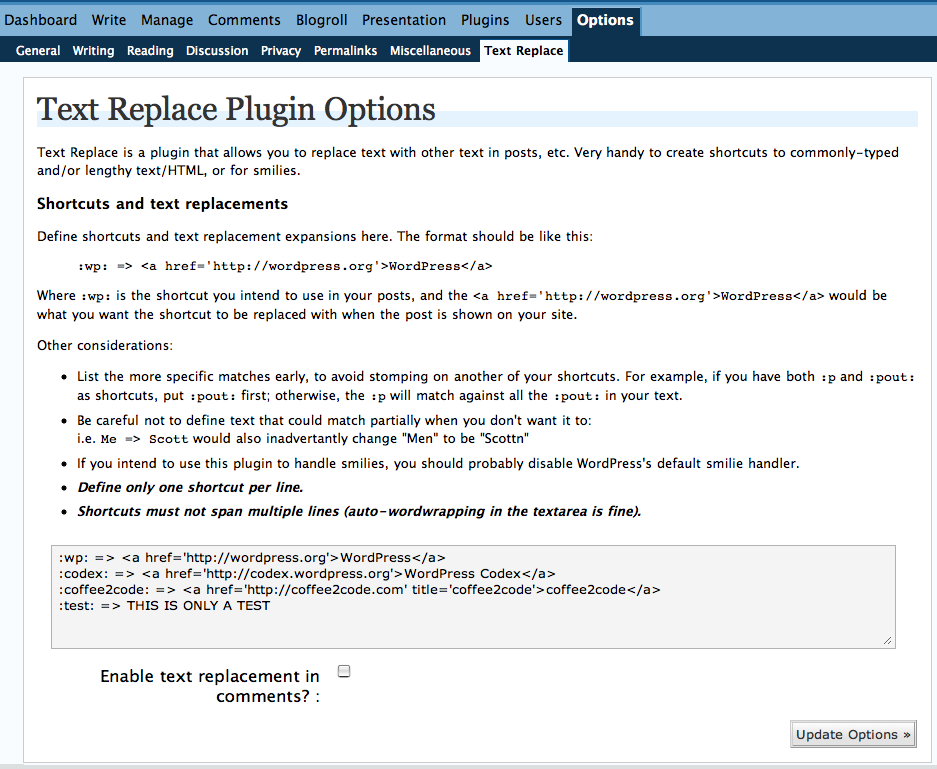
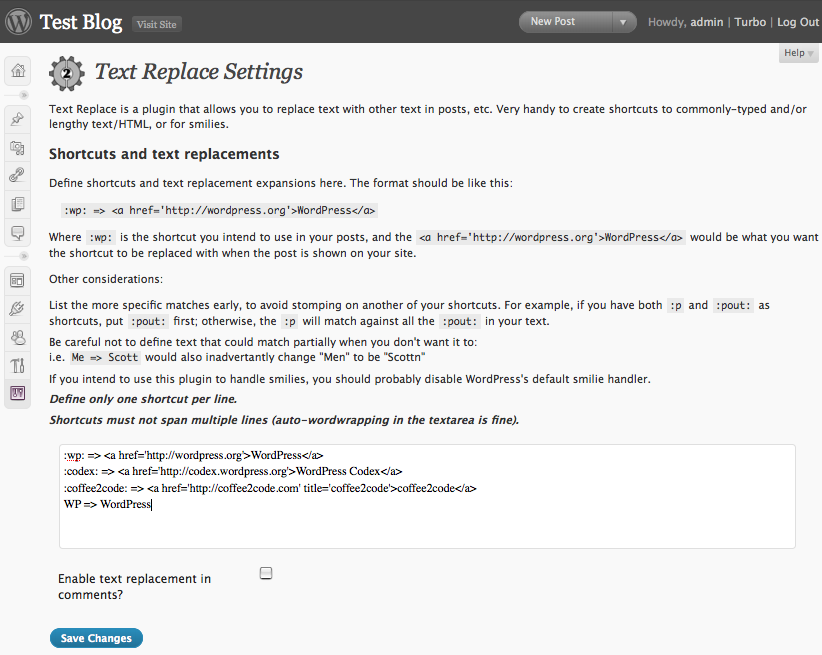
Fixed path-related issue for options page; added 'Settings' link for plugin on admin Plugins page; changed permission check; more localization-related work; minor code reformatting (spacing); removed hardcoded path; updated copyright; noted compatibility through 2.8+; dropped compatibility with vers
git-svn-id: https://plugins.svn.wordpress.org/text-replace/trunk@134848 b8457f37-d9ea-0310-8a92-e5e31aec5664

diff --git a/text-replace.php b/text-replace.php
@@ -1,7 +1,7 @@
 <?php
 /*
 Plugin Name: Text Replace
-Version: 2.0
+Version: 2.5
 Plugin URI: http://coffee2code.com/wp-plugins/text-replace
 Author: Scott Reilly
 Author URI: http://coffee2code.com
@@ -38,7 +38,7 @@ use the updated replacement text.
 - SPECIAL NOTE FOR UPGRADERS: If you have used v1.0 or prior of this plugin, you will have to copy your $text_to_replace
 array contents into the plugin's new option's page field.
 
-Compatible with WordPress 2.2+, 2.3+, and 2.5.
+Compatible with WordPress 2.6+, 2.7+, 2.8+
 
 =>> Read the accompanying readme.txt file for more information.  Also, visit the plugin's homepage
 =>> for more information and the latest updates
@@ -48,14 +48,13 @@ Installation:
 1. Download the file http://coffee2code.com/wp-plugins/text-replace.zip and unzip it into your 
 /wp-content/plugins/ directory.
 2. Activate the plugin through the 'Plugins' admin menu in WordPress
-3. Go to the new Options -> Text Replace admin options page.  Optionally customize the options.
-(For WordPress 2.5 this would be Settings -> Text Replace)
+3. Go to Settings -> Text Replace admin options page and customize the options (notably to define the shortcuts and their replacements).
 4. Start using the shortcuts in posts.  (Also applies to shortcuts already defined in older posts as well)
 
 */
 
 /*
-Copyright (c) 2004-2008 by Scott Reilly (aka coffee2code)
+Copyright (c) 2004-2009 by Scott Reilly (aka coffee2code)
 
 Permission is hereby granted, free of charge, to any person obtaining a copy of this software and associated documentation 
 files (the "Software"), to deal in the Software without restriction, including without limitation the rights to use, copy, 
@@ -114,20 +113,37 @@ class TextReplace {
 	}
 
 	function admin_menu() {
-		if ( $this->show_admin )
-			add_options_page('Text Replace', 'Text Replace', 9, basename(__FILE__), array(&$this, 'options_page'));
+		static $plugin_basename;
+		if ( $this->show_admin ) {
+			global $wp_version;
+			if ( current_user_can('manage_options') ) {
+				$plugin_basename = plugin_basename(__FILE__); 
+				if ( version_compare( $wp_version, '2.6.999', '>' ) )
+					add_filter( 'plugin_action_links_' . $plugin_basename, array(&$this, 'plugin_action_links') );
+				add_options_page(__('Text Replace', 'text-replace'), __('Text Replace', 'text-replace'), 9, $plugin_basename, array(&$this, 'options_page'));
+			}
+		}
+	}
+
+	function plugin_action_links( $action_links ) {
+		static $plugin_basename;
+		if ( !$plugin_basename ) $plugin_basename = plugin_basename(__FILE__); 
+		$settings_link = '<a href="options.php?page='.$plugin_basename.'">' . __('Settings', 'text-replace') . '</a>';
+		array_unshift( $action_links, $settings_link );
+
+		return $action_links;
 	}
 
 	function get_options() {
-		if ( !empty($this->options)) return $this->options;
+		if ( !empty($this->options) ) return $this->options;
 		// Derive options from the config
 		$options = array();
-		foreach (array_keys($this->config) as $opt) {
+		foreach ( array_keys($this->config) as $opt ) {
 			$options[$opt] = $this->config[$opt]['default'];
 		}
         $existing_options = get_option($this->admin_options_name);
-        if (!empty($existing_options)) {
-            foreach ($existing_options as $key => $value)
+        if ( !empty($existing_options) ) {
+            foreach ( $existing_options as $key => $value )
                 $options[$key] = $value;
         }            
 		$this->options = $options;
@@ -135,6 +151,8 @@ class TextReplace {
 	}
 
 	function options_page() {
+		static $plugin_basename;
+		if ( !$plugin_basename ) $plugin_basename = plugin_basename(__FILE__); 
 		$options = $this->get_options();
 		// See if user has submitted form
 		if ( isset($_POST['submitted']) ) {
@@ -160,14 +178,16 @@ class TextReplace {
 			// Remember to put all the other options into the array or they'll get lost!
 			update_option($this->admin_options_name, $options);
 
-			echo "<div class='updated'><p>Plugin settings saved.</p></div>";
+			echo "<div id='message' class='updated fade'><p><strong>" . __('Settings saved', 'text-replace') . '</strong></p></div>';
 		}
 
-		$action_url = $_SERVER[PHP_SELF] . '?page=' . basename(__FILE__);
+		$action_url = $_SERVER[PHP_SELF] . '?page=' . $plugin_basename;
+		$logo = plugins_url() . '/' . basename($_GET['page'], '.php') . '/c2c_minilogo.png';
 
 		echo <<<END
 		<div class='wrap'>
-			<h2>Text Replace Plugin Options</h2>
+			<div class='icon32' style='width:44px;'><img src='$logo' alt='A plugin by coffee2code' /><br /></div>
+			<h2>Text Replace Settings</h2>
 			<p>Text Replace is a plugin that allows you to replace text with other text in posts, etc.  
 			Very handy to create shortcuts to commonly-typed and/or lengthy text/HTML, or for smilies.</p>
 						
@@ -210,23 +230,44 @@ END;
 					} else {
 						$checked = '';
 					};
-					if ($this->config[$opt]['datatype'] == 'array')
-						$value = implode(', ', $value);
-					elseif ($this->config[$opt]['datatype'] == 'hash') {
-						$new_value = '';
-						foreach ($value AS $shortcut => $replacement) {
-							$new_value .= "$shortcut => $replacement\n";
+					if ($this->config[$opt]['datatype'] == 'array') {
+						if (!is_array($value))
+							$value = '';
+						else {
+							if ($input == 'textarea' || $input == 'inline_textarea')
+								$value = implode("\n", $value);
+							else
+								$value = implode(', ', $value);
 						}
-						$value = $new_value;
+					} elseif ($this->config[$opt]['datatype'] == 'hash') {
+						if (!is_array($value))
+							$value = '';
+						else {
+							$new_value = '';
+							foreach ($value AS $shortcut => $replacement) {
+								$new_value .= "$shortcut => $replacement\n";
+							}
+							$value = $new_value;
+						}
 					}
 					echo "<tr valign='top'>";
-					if ($this->config[$opt]['input'] == 'textarea') {
+					if ($input == 'textarea') {
 						echo "<td colspan='2'>";
 						if ($label) echo "<strong>$label</strong><br />";
 						echo "<textarea name='$opt' id='$opt' {$this->config[$opt]['input_attributes']}>" . $value . '</textarea>';
 					} else {
 						echo "<th scope='row'>$label</th><td>";
-						echo "<input name='$opt' type='$input' id='$opt' value='$value' $checked {$this->config[$opt]['input_attributes']} />";
+						if ($input == "inline_textarea")
+							echo "<textarea name='$opt' id='$opt' {$this->config[$opt]['input_attributes']}>" . $value . '</textarea>';
+						elseif ($input == 'select') {
+							echo "<select name='$opt' id='$opt'>";
+							foreach ($this->config[$opt]['options'] as $sopt) {
+								$selected = $value == $sopt ? " selected='selected'" : '';
+								echo "<option value='$sopt'$selected>$sopt</option>";
+							}
+							echo "</select>";
+						} else
+							echo "<input name='$opt' type='$input' id='$opt' value='$value' $checked {$this->config[$opt]['input_attributes']} />";
 					}
 					if ($this->config[$opt]['help']) {
 						echo "<br /><span style='color:#777; font-size:x-small;'>";
@@ -235,14 +276,15 @@ END;
 					}
 					echo "</td></tr>";
 				}
+		$txt = __('Save Changes');
 		echo <<<END
-			</table>
+			</tbody></table>
 			<input type="hidden" name="submitted" value="1" />
-			<div class="submit"><input type="submit" name="Submit" value="Save Changes" /></div>
+			<div class="submit"><input type="submit" name="Submit" class="button-primary" value="{$txt}" /></div>
 		</form>
 			</div>
 END;
-		$logo = get_option('siteurl') . '/wp-content/plugins/' . basename($_GET['page'], '.php') . '/c2c_minilogo.png';
+
 		echo <<<END
 		<style type="text/css">
 			#c2c {
@@ -282,8 +324,8 @@ END;
 		$options = $this->get_options();
 		$text_to_replace = $options['text_to_replace'];
 		$text = ' ' . $text . ' ';
-		if (!empty($text_to_replace)) {
-			foreach ($text_to_replace as $old_text => $new_text) {
+		if ( !empty($text_to_replace) ) {
+			foreach ( $text_to_replace as $old_text => $new_text ) {
 				$old_text = str_replace($oldchars, $newchars, $old_text);
 				// Old method for string replacement.
 				//$text = preg_replace("|([\s\>]*)(".$old_text.")([\s\<\.,;:\\/\-]*)|imsU" , "$1".$new_text."$3", $text);
@@ -298,13 +340,11 @@ END;
 } // end TextReplace
 
 endif; // end if !class_exists()
+
 if ( class_exists('TextReplace') ) :
-	// Get the ball rolling
 	$text_replace = new TextReplace();
-	// Actions and filters
-	if (isset($text_replace)) {
+	if ( isset($text_replace) )
 		register_activation_hook( __FILE__, array(&$text_replace, 'install') );
-	}
 endif;
 
 ?>
